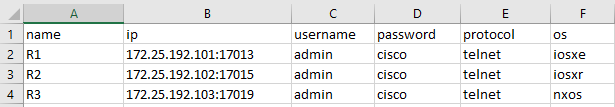
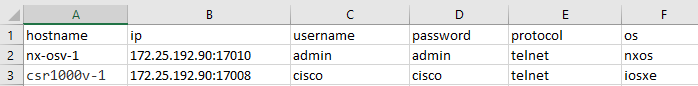
Changed the Excel example to show hostname instead of name.

diff --git a/source/quickstart/manageconnections.rst b/source/quickstart/manageconnections.rst
@@ -39,7 +39,7 @@ The ``devices`` block contains a description of each network device, and must in
     :header: "Key", "Description"
     :widths: 25 75
 
-    "``name``", "This *must* be the hostname of the device."
+    "``hostname``", "This *must* be the hostname of the device."
     "``alias``", "The |library| uses the alias to identify the device during script execution. This makes the script reusable on another topology, when a device is assigned the same alias, such as ``uut`` (unit under test)."
     "``os``", "Device operating system"
     "``credentials``", "The username, password, and any other credentials required to log in to the device."
@@ -90,7 +90,7 @@ Use Excel to create the YAML file
 ^^^^^^^^^^^^^^^^^^^^^^^^^^^^^^^^^^
 You can define all of your device data in a CSV (.csv) or Excel (.xls, .xlsx) file. The |library| ``create testbed`` command automatically converts the input and creates an equivalent YAML file. 
 
-The following example shows an Excel file with the required columns. :question:`This example will change to hostname - just need some example hostnames here.`
+The following example shows an Excel file with the required columns.
 
 .. image:: geniecreate_example_excel.png 
 
